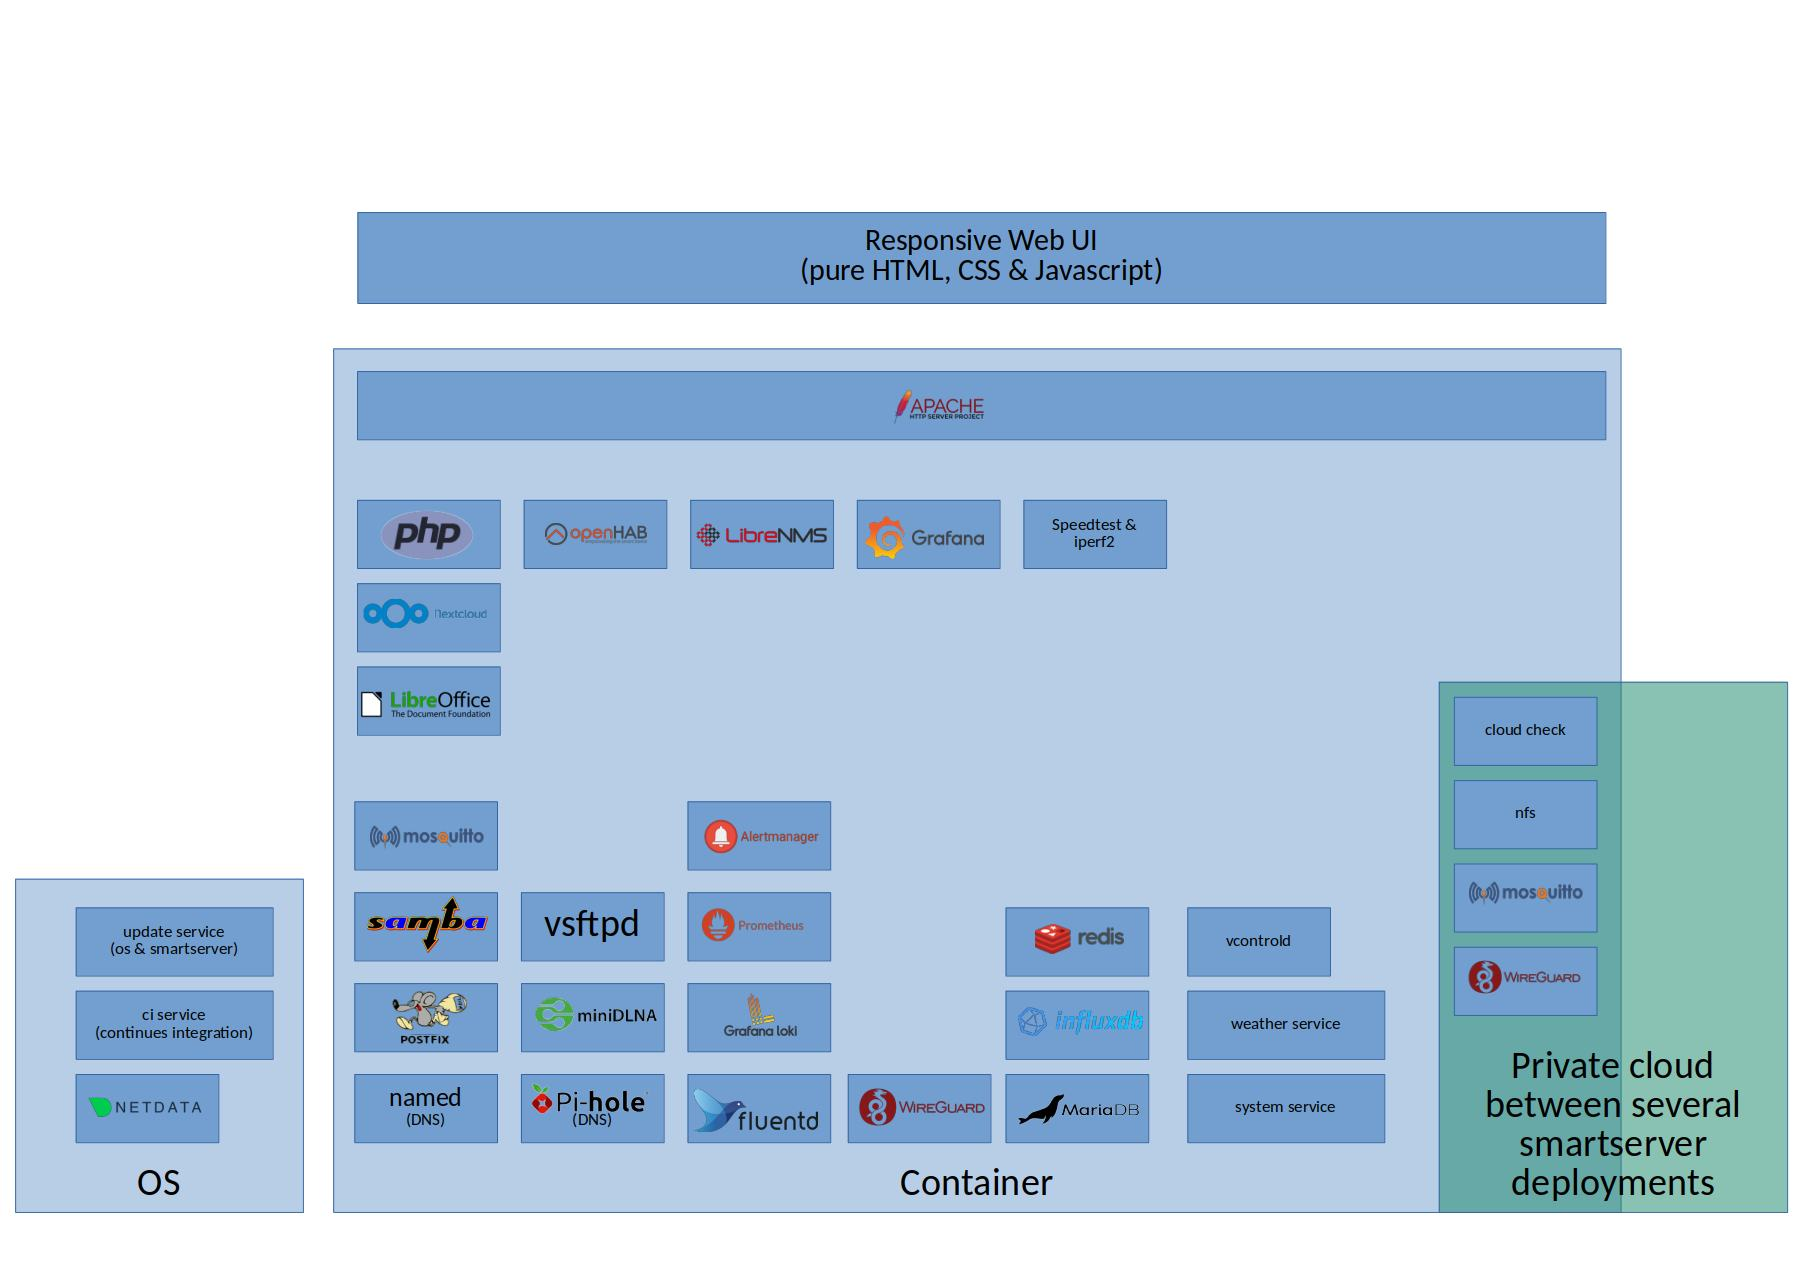
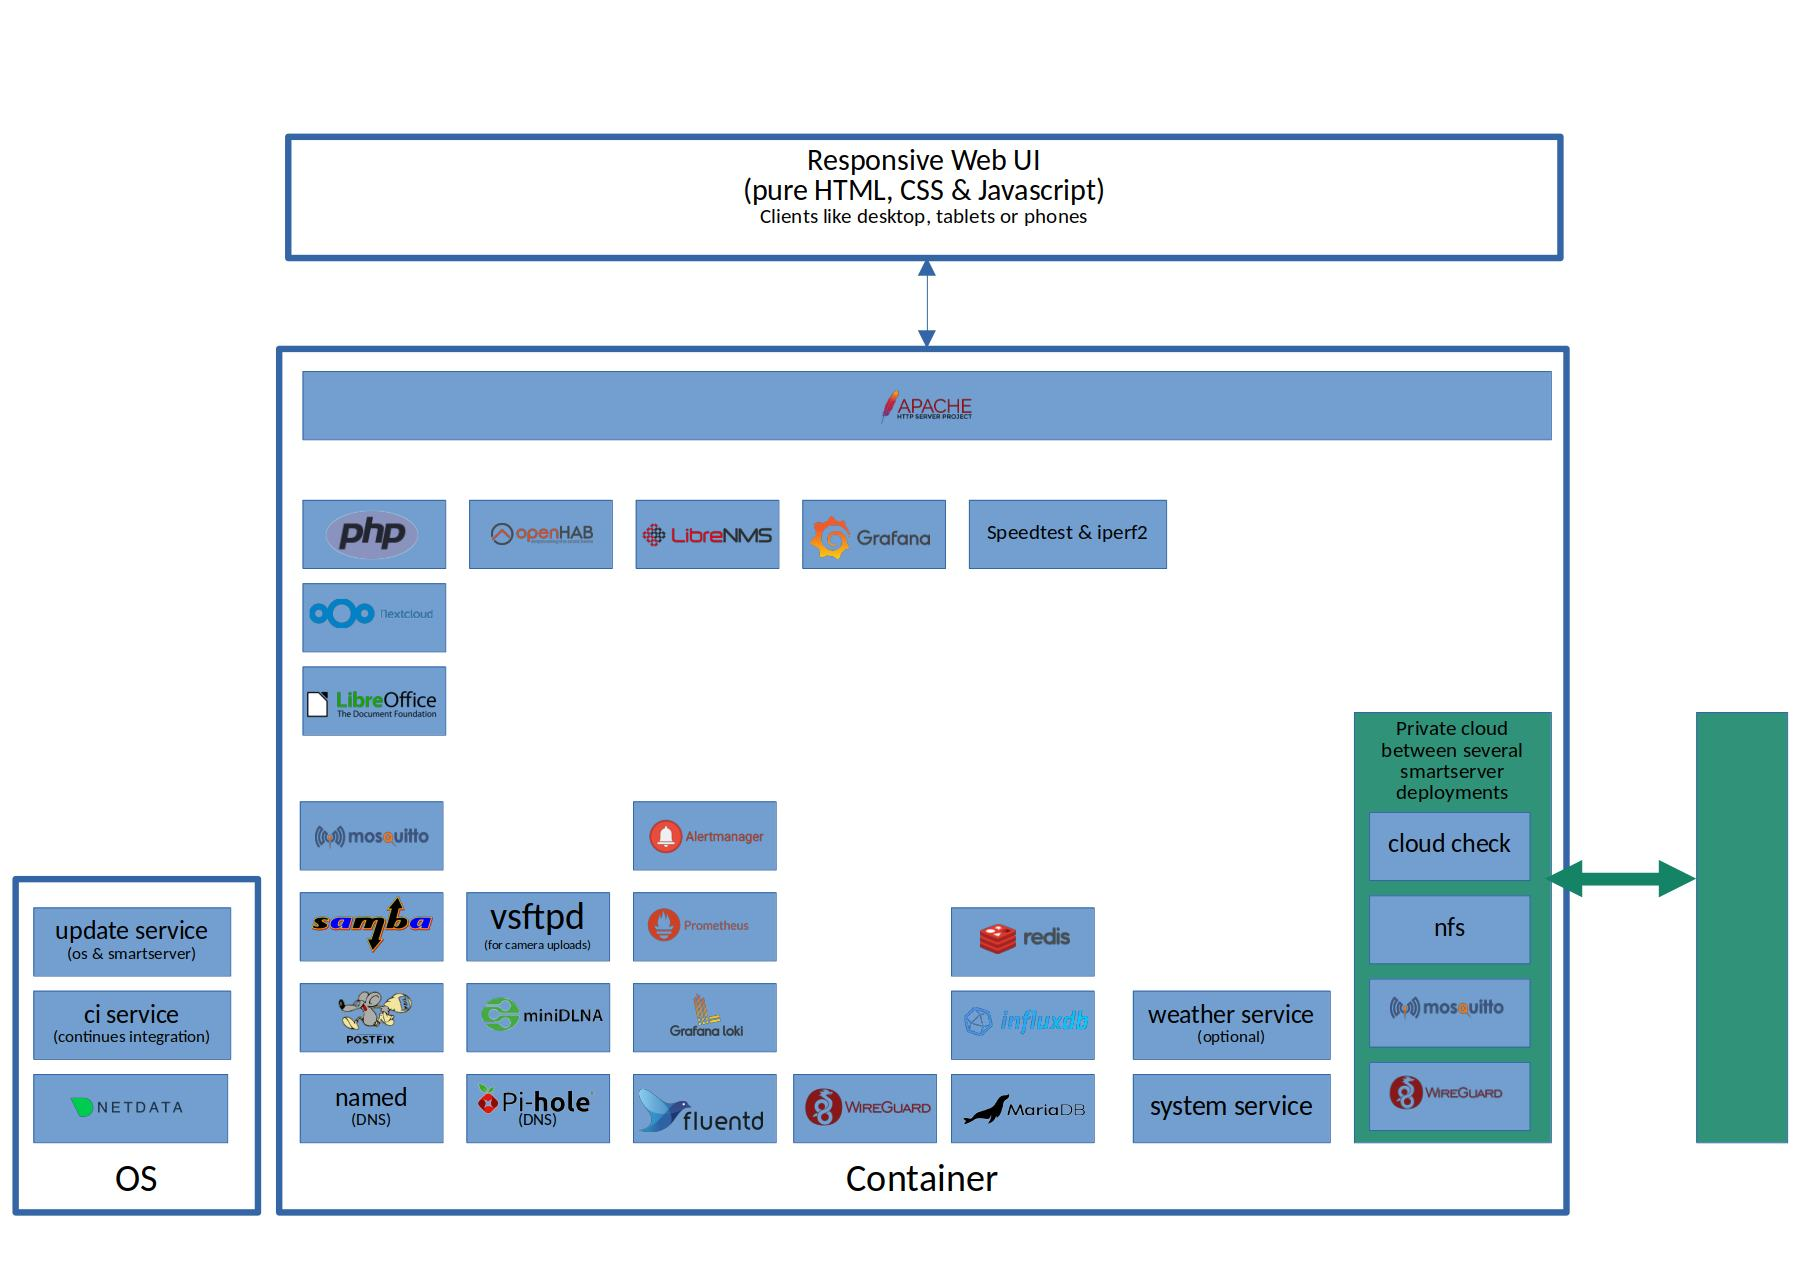
improved documentation

diff --git a/readme.md b/readme.md
@@ -18,6 +18,33 @@ A detailed explaination can be found in the [How to start](https://github.com/Ho
 
 ## Technology & Service stack
 
-After running ansible the following technology & service stack will be deployed.
-
+After running ansible, the following technology & service stack will be deployed.
 ![techstack](./doc/techstack.jpg)
+
+In addition to well known services, some custom additions are deployed too.
+
+
+1. a responsive Web UI, written in pure HTML, CSS and Javascript is deployed too. It is used to embedd webUI's from other services in a central place. It supports "user" and "admin" roles to show only nessecarry menu points to your family members.
+![welcome](./doc/welcome.jpg)
+
+2. "Private cloud" is a complete isolated network spanned through wireguard between several smartserver deployments to share backup folder, sensor messurements or other data with friends.
+
+3. "Update service" gives you a webui to handle and manage your os updates and smartserver changes and getting notified if there are new updates available
+![update service](./doc/update_service.jpg)
+
+4. "CI service" is running your smartserver deployment on suse, alma and ubuntu virtual boxes after every commit to vertify that your changes works fine
+![ci service](./doc/ci_service_1.jpg)
+![ci service](./doc/ci_service_2.jpg)
+
+5. "Weather service" is fetching weather data from a public provider and make it available for my smarthome logic
+![weather service](./doc/weather_service.jpg)
+
+6. "System Service" is the most complex service. It provides
+    - A network scanner which builds and visualizes a network/cable structure of your home network. Data are comming from snmp aware router/switches, fritzbox devices and openwrt powered devices.
+    ![system service](./doc/system_service_network_structure.jpg)
+
+    - A network state checker, who is permanently monitoring your wan connection state and speed. The reachability of your cloud peers. The reachability of your backup folder etc.
+    ![system service](./doc/system_service_network_state.jpg)
+
+    - A netflow and log analyser, who is able to block IP's automatically if they contact your server in a bad way. This includes also traffic like SYN requests which are normally not visible in log files.
+    ![system service](./doc/system_service_network_traffic.jpg)
